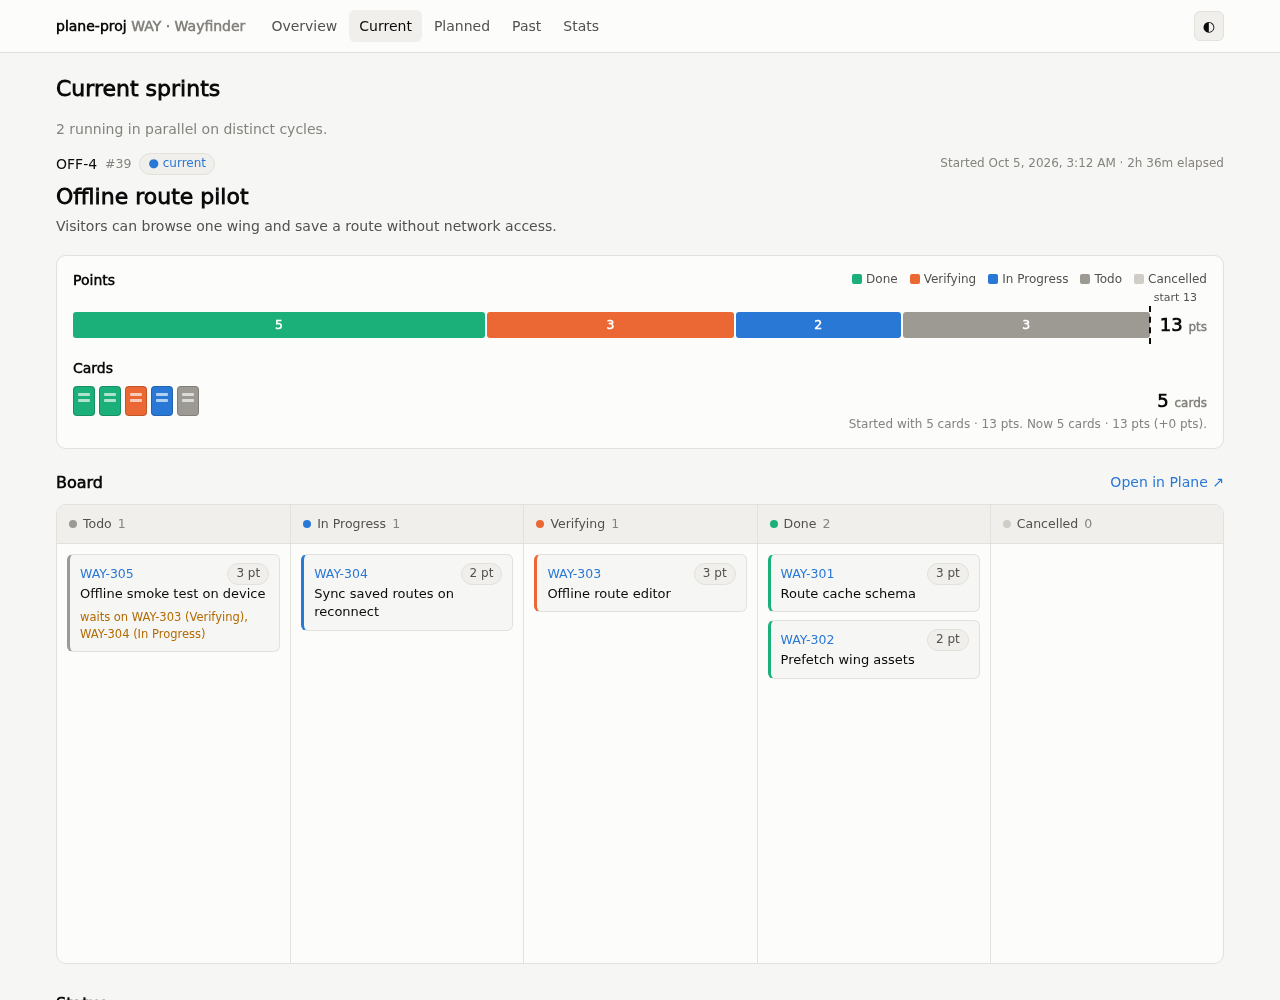
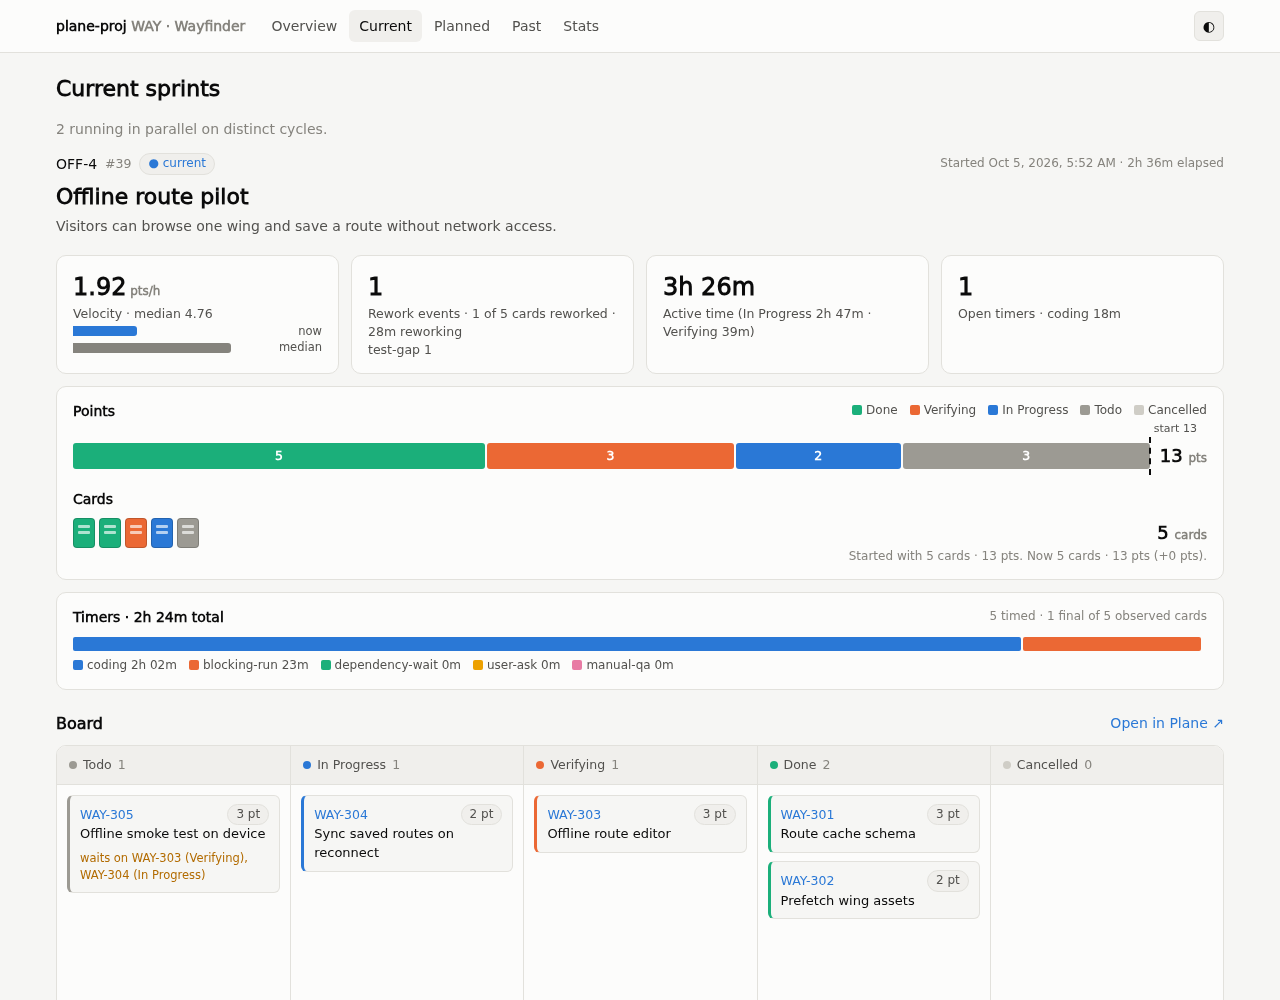
feat: put the four status tiles at the top of the Current page
At the user's request the Current sprint page now reads: velocity,
rework, active time and open timers tiles; then points and cards; then
the timers bar; then the board, acceptance and execution guidance. The
"Status" heading is gone with the tiles at the top.

The velocity tile placeholder is now built from the real tile's
structure, so the row keeps its height when the live value arrives.

Verification: against a live register on a loopback port, the tile row
measured 116.27 px and the summary card and board tops stayed at 302.84
px and 661.80 px before and after Plane data arrived; no browser errors.
The Current screenshot is regenerated from the Wayfinder demo data.
pytest, ruff check, rumdl check and nix build .#plane-proj pass.
Version 0.21.11.

diff --git a/src/plane_proj/web.html b/src/plane_proj/web.html
@@ -327,7 +327,7 @@ function summaryCard(s, cards) {
   const count = PARTIAL ? skInline('70px', 22)
     : `<span class="tot" style="font-weight:650;font-size:18px">${cards.length} <span class="muted small">cards</span></span>`;
   const icons = PARTIAL ? skIcons(s.cards_start, true) : cardIcons(byProgress(cards).map(c => stC[c.state]), true);
-  return `<div class="card" style="margin-top:18px">
+  return `<div class="card" style="margin-top:12px">
     ${POINTS ? `${header('Points')}<div style="margin-top:22px">${PARTIAL ? skStateBar() : stateBar(cards, s.points_start, 'pts')}</div>
     <h3 style="margin:20px 0 8px">Cards</h3>` : header('Cards')}
     <div class="row" style="align-items:flex-start">${icons}<span class="sp"></span>
@@ -346,7 +346,20 @@ V.currentOne = s => {
     <span class="muted small">Started ${fullDate(s.started)} · ${fmtH(el)} elapsed</span></div>
   <h1 style="margin-top:6px">${esc(s.title)}</h1><p class="goal">${esc(s.goal)}</p>
 
+  <div class="grid g4" style="margin-top:18px">
+    ${PARTIAL && POINTS ? `<div class="card kpi"><div class="v">${skInline('90px', 24)}</div><div class="l">${skInline('70%', 12)}</div>
+      ${`<div class="hb"><div class="track">${sk('60%', 10)}</div><span class="lbl">&#8203;</span></div>`.repeat(2)}</div>` : ''}
+    ${vel != null ? `<div class="card kpi"><div class="v">${num(vel, 2)}<span class="muted small"> pts/h</span></div><div class="l">Velocity${MEDV ? ` · median ${num(MEDV, 2)}` : ''}</div>
+      ${hbar(vel, Math.max(vel, MEDV || 0) * 1.2 || 1, 'now', 'var(--c1)')}${MEDV ? hbar(MEDV, Math.max(vel, MEDV) * 1.2, 'median', 'var(--muted)') : ''}</div>` : ''}
+    <div class="card kpi"><div class="v">${t.rework_count ?? 0}</div><div class="l">Rework events · ${t.reworked_cards ?? 0} of ${t.rework_observed_cards ?? 0} cards reworked${t.rework_minutes ? ` · ${fmtMin(t.rework_minutes)} reworking` : ''}${reasonText(t.rework_reasons) ? `<br>${reasonText(t.rework_reasons)}` : ''}</div></div>
+    <div class="card kpi"><div class="v">${fmtMin(active)}</div><div class="l">Active time (In Progress ${fmtMin(t.active_minutes?.['In Progress'])} · Verifying ${fmtMin(t.active_minutes?.['Verifying'])})</div></div>
+    <div class="card kpi"><div class="v">${openT.length || 'None'}</div><div class="l">Open timers ${openT.map(([k, v]) => `· ${k} ${fmtMin(v)}`).join(' ')}</div></div>
+  </div>
   ${summaryCard(s, cards)}
+  <div class="card" style="margin-top:12px"><div class="row"><h3 style="margin:0">Timers · ${fmtMin(execTot)} total</h3><span class="sp"></span>
+    <span class="muted small">${t.timed_cards ?? 0} timed · ${t.final_cards ?? 0} final of ${t.observed_cards ?? 0} observed cards</span></div>
+    <div style="display:flex;height:14px;gap:2px;margin:10px 0 6px">${exec.map(([k, v], i) => `<span style="flex:${v};background:${execColors[i % 6]};border-radius:2px" data-tip="${k}: ${fmtMin(v)}"></span>`).join('')}</div>
+    <div class="legend">${exec.map(([k, v], i) => `<span><i style="background:${execColors[i % 6]}"></i>${k} ${fmtMin(v)}</span>`).join('')}</div></div>
   ${PARTIAL ? `<div class="row" style="margin:22px 0 10px"><h2 style="margin:0">Board</h2><span class="sp"></span><a style="visibility:hidden">Open in Plane ↗</a></div>
   <div class="board">${STATES.map(st => `<div class="colh"><i style="background:${stC[st]}"></i>${st}</div>`).join('')}
     ${STATES.map((st, i) => `<div class="colb">${i < 4 ? `<div class="wi" style="border-left-color:${stC[st]}">${sk('40%', 14)}<div style="margin-top:8px">${sk('85%', 14)}</div></div>` : ''}</div>`).join('')}</div>` : `<div class="row" style="margin:22px 0 10px"><h2 style="margin:0">Board</h2><span class="sp"></span>${PLANE_BOARD ? `<a href="${esc(PLANE_BOARD)}" target="_blank" rel="noopener">Open in Plane ↗</a>` : ''}</div>
@@ -354,20 +367,6 @@ V.currentOne = s => {
     ${STATES.map(st => `<div class="colb">${cards.filter(c => c.state === st).map(c => `<div class="wi" style="border-left-color:${stC[st]}">
       <div class="row"><a class="mono" href="${esc(c.url)}" target="_blank" rel="noopener">${esc(c.ref)}</a><span class="sp"></span>${POINTS ? `<span class="pill">${c.points} pt</span>` : ''}</div>
       <div>${esc(c.title)}</div>${waitsOn(c)}</div>`).join('')}</div>`).join('')}</div>`}
-
-  <h2>Status</h2>
-  <div class="grid g4">
-    ${PARTIAL && POINTS ? `<div class="card kpi">${sk('90px', 30)}<div style="margin-top:6px">${sk('70%', 12)}</div><div style="margin-top:10px">${sk('100%', 10)}</div><div style="margin-top:6px">${sk('80%', 10)}</div></div>` : ''}
-    ${vel != null ? `<div class="card kpi"><div class="v">${num(vel, 2)}<span class="muted small"> pts/h</span></div><div class="l">Velocity${MEDV ? ` · median ${num(MEDV, 2)}` : ''}</div>
-      ${hbar(vel, Math.max(vel, MEDV || 0) * 1.2 || 1, 'now', 'var(--c1)')}${MEDV ? hbar(MEDV, Math.max(vel, MEDV) * 1.2, 'median', 'var(--muted)') : ''}</div>` : ''}
-    <div class="card kpi"><div class="v">${t.rework_count ?? 0}</div><div class="l">Rework events · ${t.reworked_cards ?? 0} of ${t.rework_observed_cards ?? 0} cards reworked${t.rework_minutes ? ` · ${fmtMin(t.rework_minutes)} reworking` : ''}${reasonText(t.rework_reasons) ? `<br>${reasonText(t.rework_reasons)}` : ''}</div></div>
-    <div class="card kpi"><div class="v">${fmtMin(active)}</div><div class="l">Active time (In Progress ${fmtMin(t.active_minutes?.['In Progress'])} · Verifying ${fmtMin(t.active_minutes?.['Verifying'])})</div></div>
-    <div class="card kpi"><div class="v">${openT.length || 'None'}</div><div class="l">Open timers ${openT.map(([k, v]) => `· ${k} ${fmtMin(v)}`).join(' ')}</div></div>
-  </div>
-  <div class="card" style="margin-top:12px"><div class="row"><h3 style="margin:0">Timers · ${fmtMin(execTot)} total</h3><span class="sp"></span>
-    <span class="muted small">${t.timed_cards ?? 0} timed · ${t.final_cards ?? 0} final of ${t.observed_cards ?? 0} observed cards</span></div>
-    <div style="display:flex;height:14px;gap:2px;margin:10px 0 6px">${exec.map(([k, v], i) => `<span style="flex:${v};background:${execColors[i % 6]};border-radius:2px" data-tip="${k}: ${fmtMin(v)}"></span>`).join('')}</div>
-    <div class="legend">${exec.map(([k, v], i) => `<span><i style="background:${execColors[i % 6]}"></i>${k} ${fmtMin(v)}</span>`).join('')}</div></div>
 
   <h2>Acceptance</h2><div class="card prose">${esc(s.acceptance)}</div>
   <details style="margin-top:12px"><summary>Execution guidance</summary><div class="card prose" style="margin-top:8px">${esc(s.execution)}</div></details>`;
